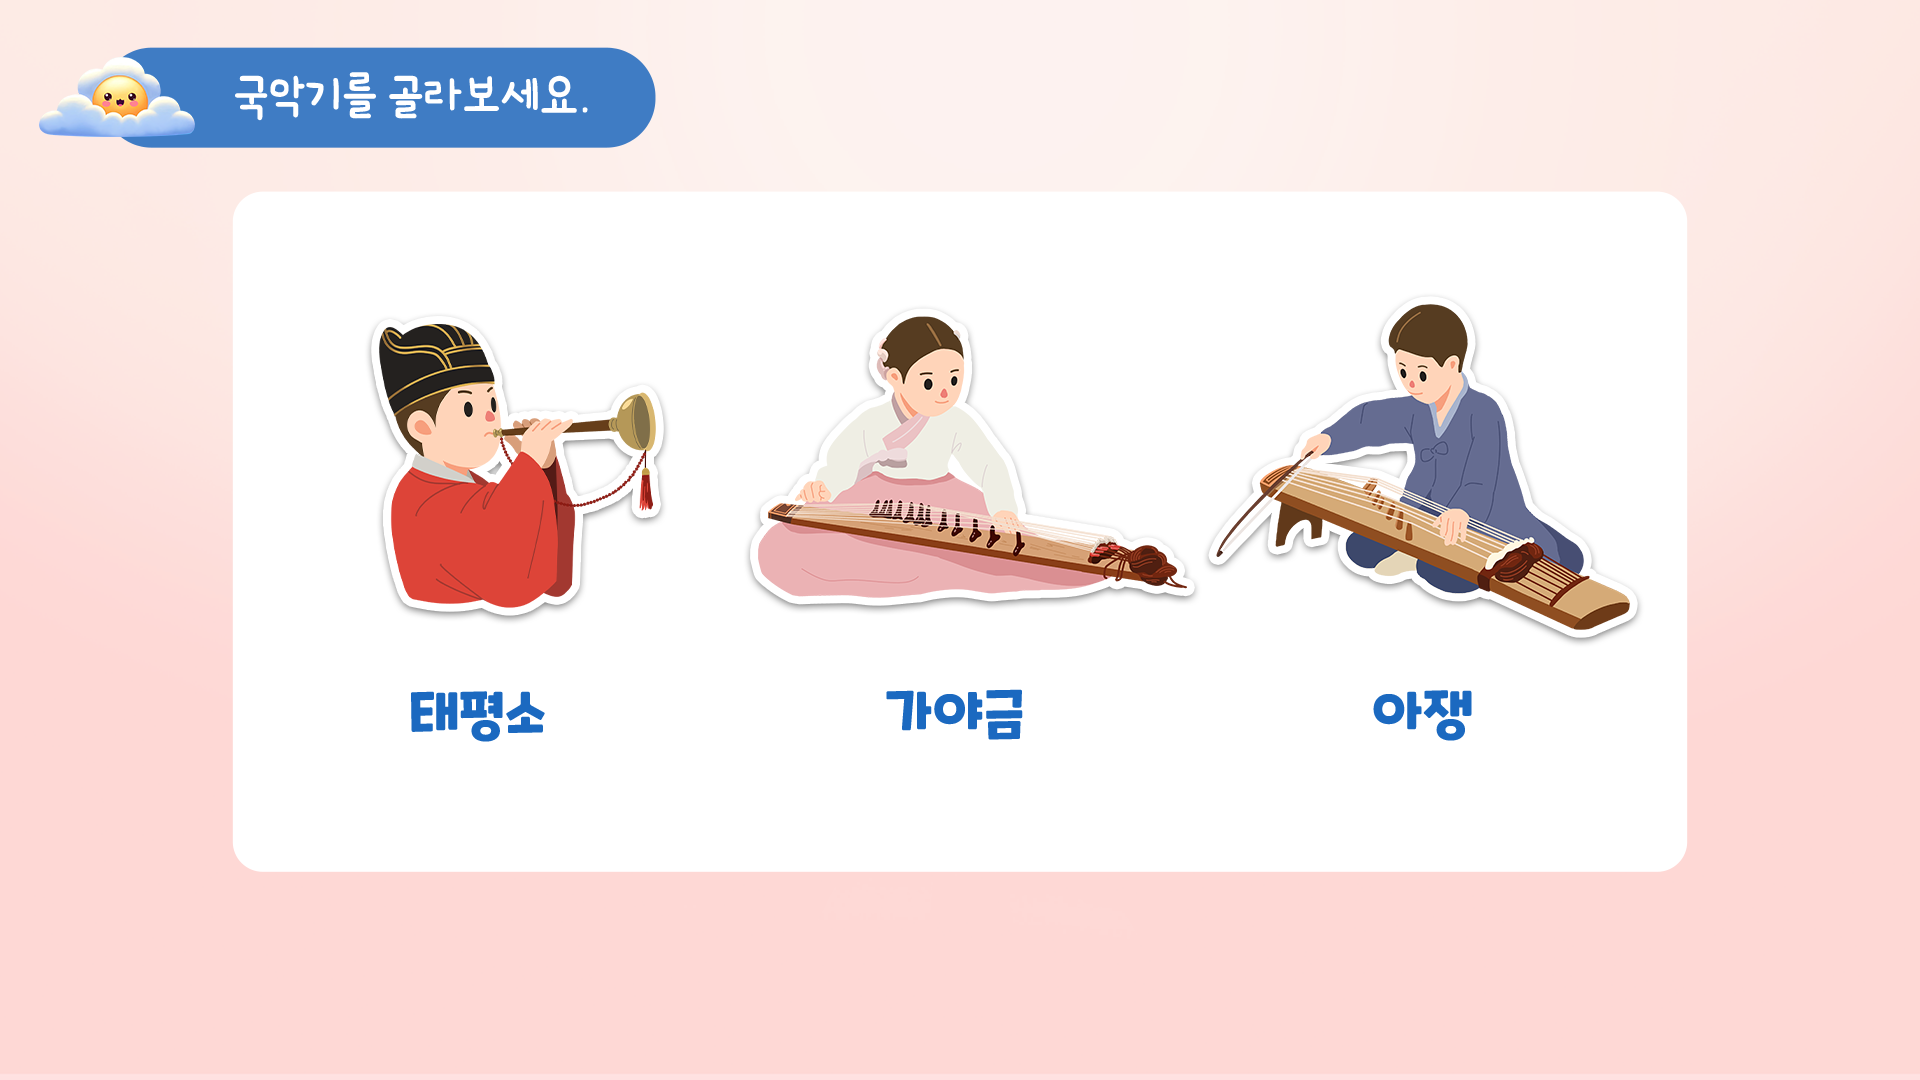
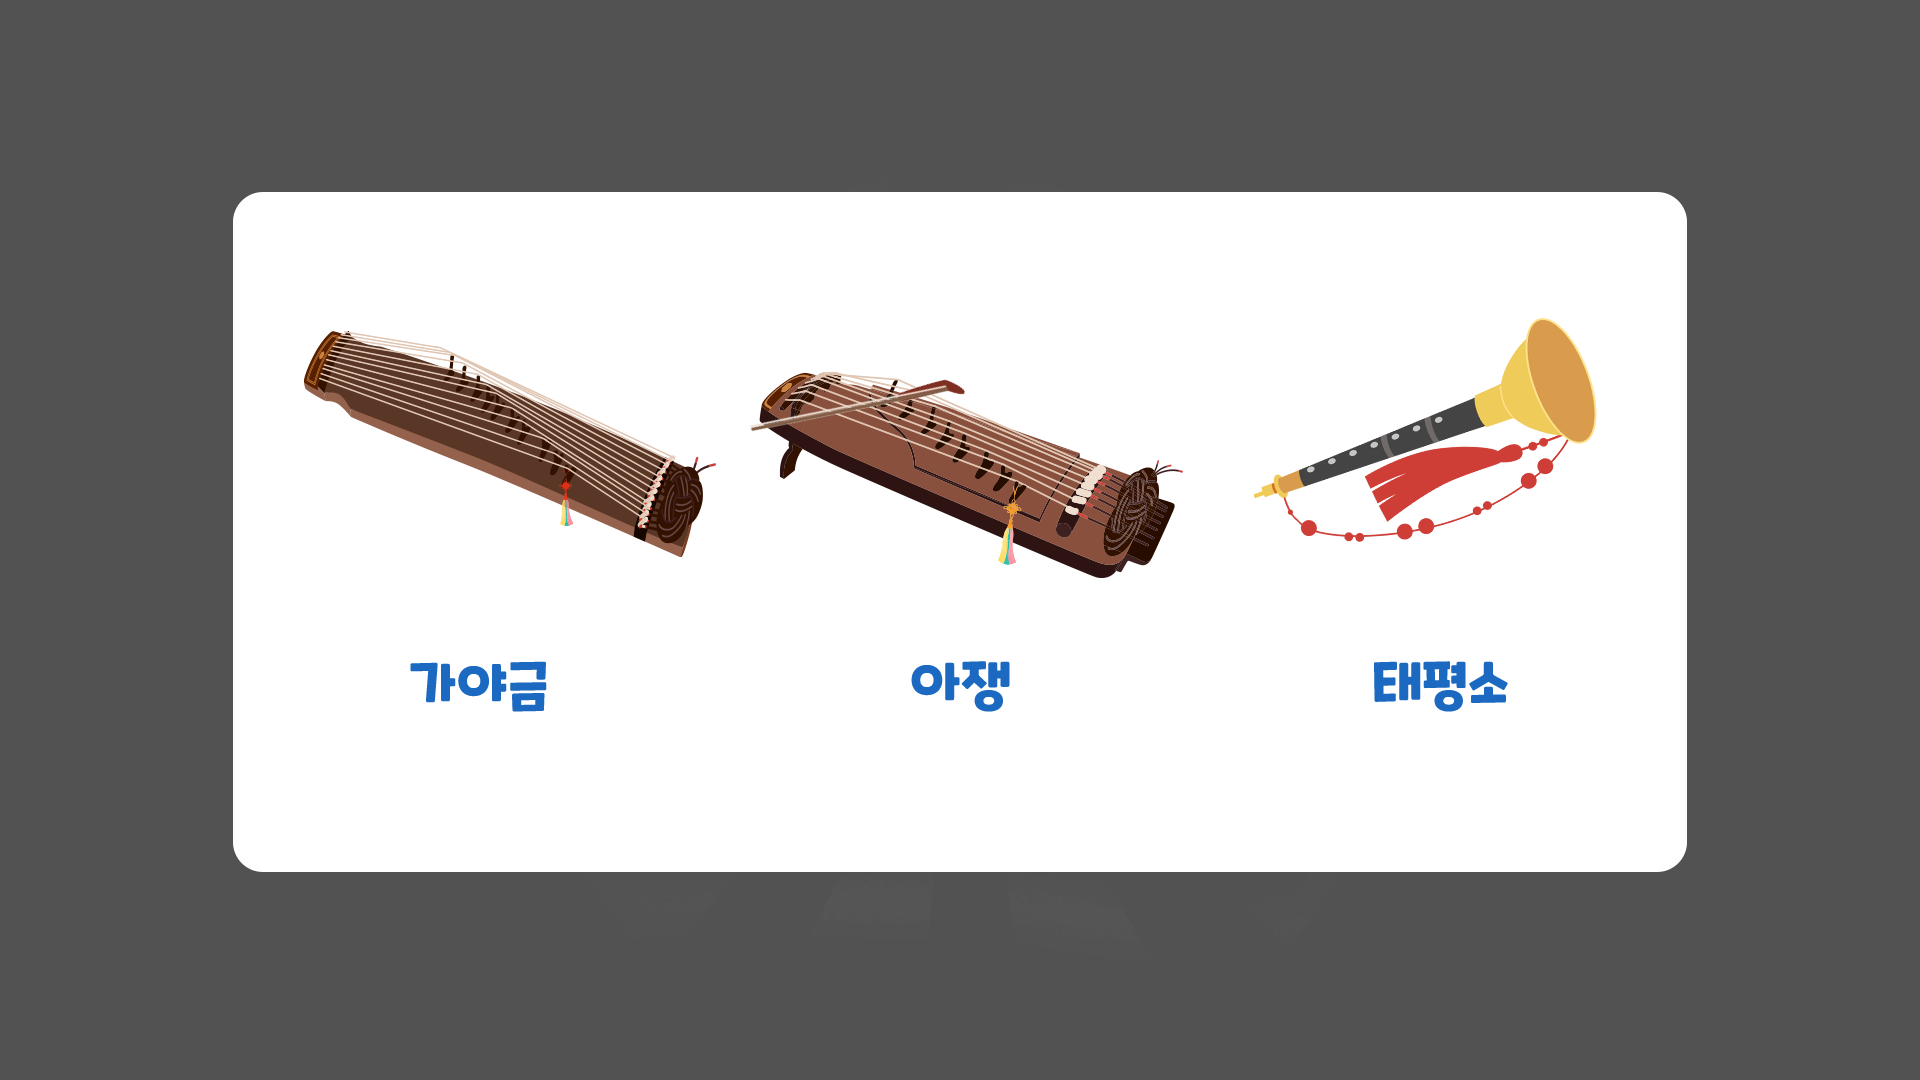
국악기 알기 더 알아보기 수정

diff --git a/musical/select_02.html b/musical/select_02.html
@@ -80,19 +80,19 @@
                             </a>
                             <div class="sd">
                                 <div class="img_01 active">
-                                    <img src="img/content_01/dialog_01.png" />
+                                    <img src="img/content_02/dialog_01.png" />
                                     <div class="btn-dialog">
                                         <a href="https://academy.gugak.go.kr/open/open/lecture/detail.do?openLectureSeq=683&srchOpenCategorySeq=17&srchListType=CATEGORY&currentMenuId=900006001" class="btn-youtube btn-hover btn-effect" target="_blank"></a>
                                     </div>
                                 </div>
                                 <div class="img_02">
-                                    <img src="img/content_01/dialog_02.png" />
+                                    <img src="img/content_02/dialog_02.png" />
                                     <div class="btn-dialog">
                                         <a href="https://academy.gugak.go.kr/open/open/lecture/detail.do?openLectureSeq=925&srchOpenCategorySeq=17&srchListType=CATEGORY&currentMenuId=900006001" class="btn-youtube btn-hover btn-effect" target="_blank"></a>
                                     </div>
                                 </div>
                                 <div class="img_03">
-                                    <img src="img/content_01/dialog_03.png" />
+                                    <img src="img/content_02/dialog_03.png" />
                                     <div class="btn-dialog">
                                         <a href="https://archive.gugak.go.kr/portal/detail/searchVideoDetail?clipid=38614&system_id=AV&recording_type_code=V22" class="btn-youtube btn-hover btn-effect" target="_blank"></a>
                                     </div>
